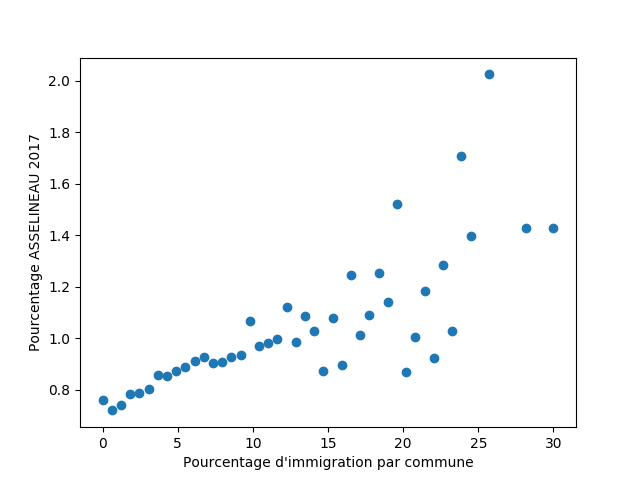
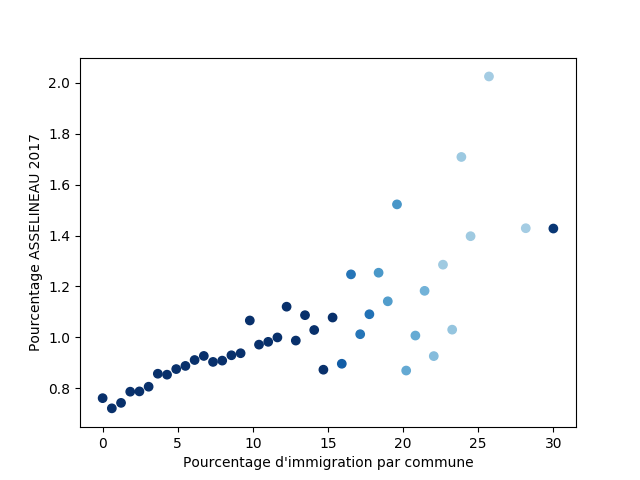
Coloring points according to fiability

diff --git a/PourcentageCandidat-EnFonctionDe.py b/PourcentageCandidat-EnFonctionDe.py
@@ -49,8 +49,15 @@ precision = 50
 
 # Nombre minimum d'occurrences pour qu'un point apparaisse sur le graph :
 min_occ = 15
+# Nombre d'occurrences au-delà duquel un point est considéré fiable 
+fiable_occ = 100
+# Transparence minimal pour un point peu fiable (pourcentage)
+min_visibility = 50
 
 ########################################################################
+
+# Décalage pour le colormap
+min_visibility_dec = (fiable_occ - min_occ) * (min_visibility/100)
 
 # Résultats élection présidentielle 2017 - Column numbers
 DEPARTEMENT = 0
@@ -266,22 +273,26 @@ with open('INSEE-Resultats2017.csv') as csvfile:
 
 print(calculs)
 
-results = {'x_axis' : [], 'y_axis' : [] }
+results = {'x_axis' : [], 'y_axis' : [] , 'fiability' : []}
 
 for i in range(0, len(x_axis)):
     if (calculs['occurrences'][i] != 0 and calculs['occurrences'][i] > min_occ):
-        results['x_axis'].append(calculs['x_axis'][i])
+        results['x_axis'].append( calculs['x_axis'][i] )
         results['y_axis'].append( calculs['total'][i] / float(calculs['occurrences'][i]) )
+        
+        results['fiability'].append( calculs['occurrences'][i] )
 
-print(len(results['x_axis']))
+#~ print(len(results['x_axis']))
 
 #~ smooth_result = interp1d(results['nb_inscrits'], results['percent'], kind='slinear')
 #~ nb_inscrits_new = np.logspace(1, 5, precision*3)
 
+# Cf. http://stackoverflow.com/a/6065493
+plt.scatter(results['x_axis'], results['y_axis'], c=results['fiability'], vmin=min_occ - min_visibility_dec, vmax=fiable_occ, cmap=plt.cm.Blues)
+
 if (x_scale_log):
-    plt.semilogx(results['x_axis'], results['y_axis'], 'o')
-else:
-    plt.plot(results['x_axis'], results['y_axis'], 'o')
+    ax = plt.gca()
+    ax.set_xscale('log')
 
 plt.xlabel(abscisse)
 plt.ylabel('Pourcentage ' + candidat + ' 2017')

diff --git a/README.md b/README.md
@@ -12,6 +12,8 @@ Le script a été majoritairement fait pour le fun pour mettre en vis-à-vis des
 
 ## Exemples
 
+Les points les moins foncés sont les moins fiables (en terme d'occurrences).
+
 ```python
 candidat = "MACRON"
 en_fonction_de = "INSCRITS"
@@ -20,7 +22,6 @@ x_start = 10
 x_end = 100000
 x_scale_log = True
 precision = 50
-min_occ = 15
 ```
 ![Pourcentage Macron en fonction du nombre d'inscrits dans la commune](Exemples-PNG/Nb-Inscrits-Macron.png)
 
@@ -34,7 +35,6 @@ x_start = 10
 x_end = 100000
 x_scale_log = True
 precision = 50
-min_occ = 15
 ```
 ![Pourcentage Le Pen en fonction du nombre d'inscrits dans la commune](Exemples-PNG/Nb-Inscrits-Le-Pen.png)
 
@@ -48,7 +48,6 @@ x_start = 0
 x_end = 8
 x_scale_log = False
 precision = 4
-min_occ = 15
 ```
 ![Pourcentage Fillon en fonction du nombre de pharmacies dans la commune](Exemples-PNG/Nb-Pharmacies-Fillon.png)
 
@@ -62,7 +61,6 @@ x_start = 10
 x_end = 50
 x_scale_log = False
 precision = 30
-min_occ = 15
 ```
 ![Pourcentage Mélenchon en fonction du pourcentage de propriétaires dans la commune](Exemples-PNG/Nb-Proprietaires-Mélenchon.png)
 
@@ -76,7 +74,6 @@ x_start = 12500
 x_end = 35000
 x_scale_log = False
 precision = 50
-min_occ = 15
 ```
 ![Pourcentage Dupont-Aignan en fonction de la médiane du niveau de vie dans la commune](Exemples-PNG/Mediane-Dupont-Aignan.png)
 
@@ -90,7 +87,6 @@ x_start = 50
 x_end = 300
 x_scale_log = False
 precision = 50
-min_occ = 15
 ```
 ![Pourcentage Poutou en fonction de la capacité fiscale moyenne de la commune](Exemples-PNG/Capacite-Fiscale-Poutou.png)
 
@@ -104,7 +100,6 @@ x_start = 0
 x_end = 30
 x_scale_log = False
 precision = 50
-min_occ = 15
 ```
 ![Pourcentage Asselineau en fonction du pourcentage d'immigration dans la commune](Exemples-PNG/Immigration-Asselineau.png)
 
@@ -125,7 +120,6 @@ sudo apt-get install python3 python3-numpy python3-matplotlib python3-scipy
 
 ## TODO
 
-* Mettre le nombre d'occurrences pour la fiabilité des résultats.
 * Calculer le pourcentage en fonction du nombre d'inscrits plutôt que d'occurrences
 	* Sur l'échelle logarithmique ? (pour la fonction `find_nearest_idx`)
 * Gérer plusieurs candidats sur un même graphique
